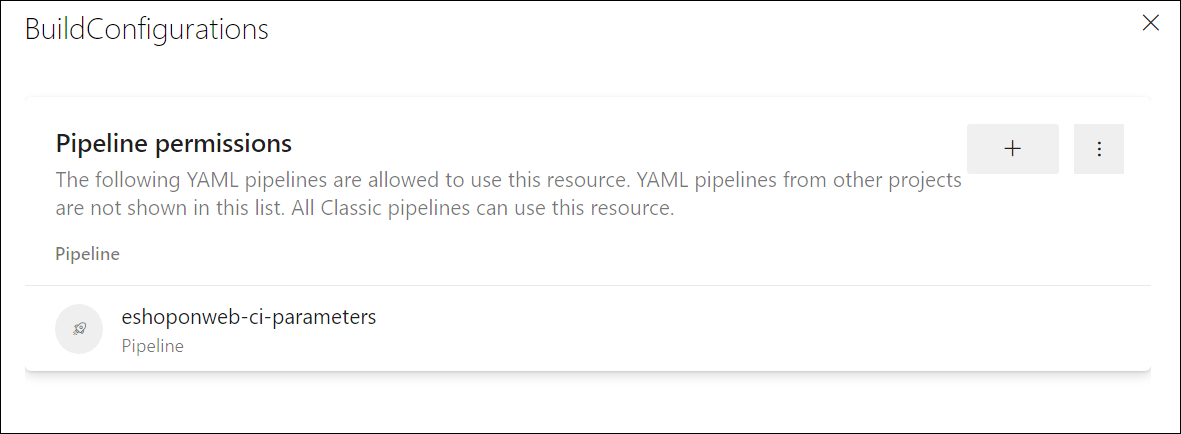
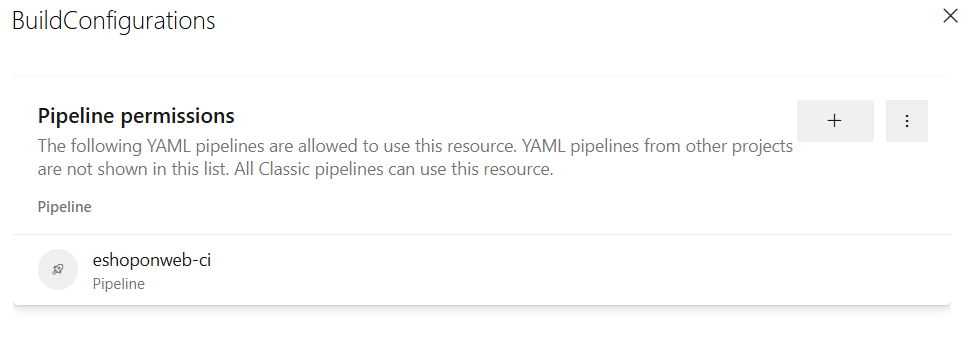
Update lab 07
- Pending only Task 4

diff --git a/Instructions/Labs/APL2001_M07_L07_Configure_Pipelines_to_Securely_Use_Variables_and_Parameters.md b/Instructions/Labs/APL2001_M07_L07_Configure_Pipelines_to_Securely_Use_Variables_and_Parameters.md
@@ -20,17 +20,17 @@ You'll need an Azure subscription, Azure DevOps organization, and the eShopOnWeb
 
 ### Exercise 1: Ensure parameter and variable types
 
-#### Task 1: Import and run the CI pipeline
+#### Task 1: (skip if done) Import and run the CI pipeline
 
-Start by importing the CI pipeline named [eshoponweb-ci.yml](https://github.com/MicrosoftLearning/eShopOnWeb/blob/main/.ado/eshoponweb-ci.yml).
+Let's start by importing the CI pipeline named [eshoponweb-ci.yml](https://github.com/MicrosoftLearning/eShopOnWeb/blob/main/.ado/eshoponweb-ci.yml).
 
 1. Navigate to the Azure DevOps portal at `https://aex.dev.azure.com` and open your organization.
 
-1. Open the eShopOnWeb project.
+1. Open the **eShopOnWeb** project in Azure DevOps.
 
 1. Go to **Pipelines > Pipelines**.
 
-1. Select **Create Pipeline**.
+1. Select the **Create Pipeline** button.
 
 1. Select **Azure Repos Git (Yaml)**.
 
@@ -38,25 +38,25 @@ Start by importing the CI pipeline named [eshoponweb-ci.yml](https://github.com/
 
 1. Select **Existing Azure Pipelines YAML File**.
 
-1. Select the **/.ado/eshoponweb-ci.yml** file then select **Continue**.
+1. Select the **/.ado/eshoponweb-ci.yml** file then click on **Continue**.
 
 1. Select the **Run** button to run the pipeline.
 
-   > **Note**: Your pipeline will take a name based on the project name. Rename it for identifying the pipeline better.
+   > **Note**: Your pipeline will take a name based on the project name. You will rename it to easier identify the pipeline.
 
-1. Go to **Pipelines > Pipelines** and select the recently created pipeline. select the ellipsis and **Rename/move** option.
+1. Go to **Pipelines > Pipelines** and select the recently created pipeline. Select the ellipsis and then select **Rename/move** option.
 
-1. Name it **eshoponweb-ci-parameters** and select **Save**.
+1. Name it **eshoponweb-ci** and select **Save**.
 
 #### Task 2: Ensure parameter types for YAML pipelines
 
 In this task, you will set parameter and parameter types for the pipeline.
 
-1. Go to **Pipelines > Pipelines** and select the **eshoponweb-ci-parameters** pipeline.
+1. Go to **Pipelines > Pipelines** and select the **eshoponweb-ci** pipeline.
 
 1. Select **Edit**.
 
-1. Add the following parameters and resources sections to the top of the YAML file:
+1. Add the following parameters above the jobs sections to the top of the YAML file:
 
    ```yaml
    parameters:
@@ -67,21 +67,19 @@ In this task, you will set parameter and parameter types for the pipeline.
      type: string
      default: 'tests/UnitTests/*.csproj'
 
-   resources:
-     repositories:
-     - repository: self
-       trigger: none
+   jobs:
+   - job: Build
+     pool: eShopOnWebSelfPool
+     steps:
 
    ```
 
-1. Replace the hardcoded paths in the `Restore`, `Build`, and `Test` tasks with the parameters you just created.
+1. Replace the hardcoded paths in the "Restore", "Build", and "Test" tasks with the parameters you just created.
 
-   - **Replace projects**: `**/*.sln` with projects: `${{ "{{" }} parameters.dotNetProjects }}` in the `Restore` and `Build` tasks.
-   - **Replace projects**: `tests/UnitTests/*.csproj` with projects: `${{ "{{" }} parametertestProjects }}` in the `Test` task
+   - **Replace projects**: "**/*.sln" with projects: `${{ parameters.dotNetProjects }}` in the "Restore" and "Build" tasks.
+   - **Replace projects**: "tests/UnitTests/*.csproj" with projects: `${{ parametertestProjects }}` in the "Test" task.
 
-    The `Restore`, `Build`, and `Test` tasks in the steps section of the YAML file should look like this:
-
-    {% raw %}
+    The "Restore", "Build", and "Test" tasks in the steps section of the YAML file should look like this:
 
     ```yaml
     steps:
@@ -106,9 +104,11 @@ In this task, you will set parameter and parameter types for the pipeline.
     
     ```
 
-    {% endraw %}
+1. Click on **Validate and save** to save the changes, then click on **Save**.
 
-1. Save the pipeline and run it. Verify that the pipeline run completes successfully.
+1. Navigate to **Pipelines > Pipelines** and open the **eshoponweb-ci** pipeline that is running triggered automatically.
+
+1. Verify that the pipeline run completes successfully.
 
    ![Screenshot of the pipeline run with parameters.](media/pipeline-parameters-run.png)
 
@@ -118,9 +118,9 @@ In this task, you will secure the variables and parameters from your pipeline by
 
 1. Go to **Pipelines > Library**.
 
-1. Select the **+ Variable group** button to create a new variable group named **BuildConfigurations**.
+1. Select the **+ Variable group** button to create a new variable group named `BuildConfigurations`.
 
-1. Add a variable named **buildConfiguration** and set its value to `Release`.
+1. Add a variable named `buildConfiguration` and set its value to `Release`.
 
 1. Save the variable group.
 
@@ -128,7 +128,7 @@ In this task, you will secure the variables and parameters from your pipeline by
 
 1. Select the **Pipeline permissions** button and select the **+** button to add a new pipeline.
 
-1. Select the **eshoponweb-ci-parameters** pipeline to allow the pipeline to use the variable group.
+1. Select the **eshoponweb-ci** pipeline to allow the pipeline to use the variable group.
 
    ![Screenshot of the pipeline permissions.](media/pipeline-permissions.png)
 
@@ -136,7 +136,7 @@ In this task, you will secure the variables and parameters from your pipeline by
 
 1. Go to **Pipelines > Pipelines**.
 
-1. Open **eshoponweb-ci-parameters** pipeline and select **Edit**.
+1. Open **eshoponweb-ci** pipeline and select **Edit**.
 
 1. At the top of the yml file, right under the parameters, reference the variable group by adding the following:
 
@@ -145,9 +145,7 @@ In this task, you will secure the variables and parameters from your pipeline by
      - group: BuildConfigurations
    ```
 
-1. In the 'Build' task, replace command: 'build' with the following lines to utilize the build configuration from the variable group.
-
-    {% raw %}
+1. In the "Build" task, add the configuration parameter to the task to utilize the build configuration from the variable group.
 
     ```yaml
             command: 'build'
@@ -155,9 +153,11 @@ In this task, you will secure the variables and parameters from your pipeline by
             configuration: $(buildConfiguration)
     ```
 
-    {% endraw %}
+1. Click on **Validate and save** to save the changes, then click on **Save**.
 
-1. Save the pipeline and run it. It should run successfully with the build configuration set to `Release`. You can verify this by looking at the logs of the 'Build' task.
+1. Open the **eshoponweb-ci** pipeline run. It should run successfully with the build configuration set to "Release". You can verify this by looking at the logs of the "Build" task.
+
+> **Note**: If you don't see the build configuration set to "Release" in the logs, enable the system diagnostics and rerun the pipeline to see the configuration value.
 
 > **Note**: Following this approach, you can secure your variables and parameters by using variable groups without having to hardcode them in YAML files.
 
